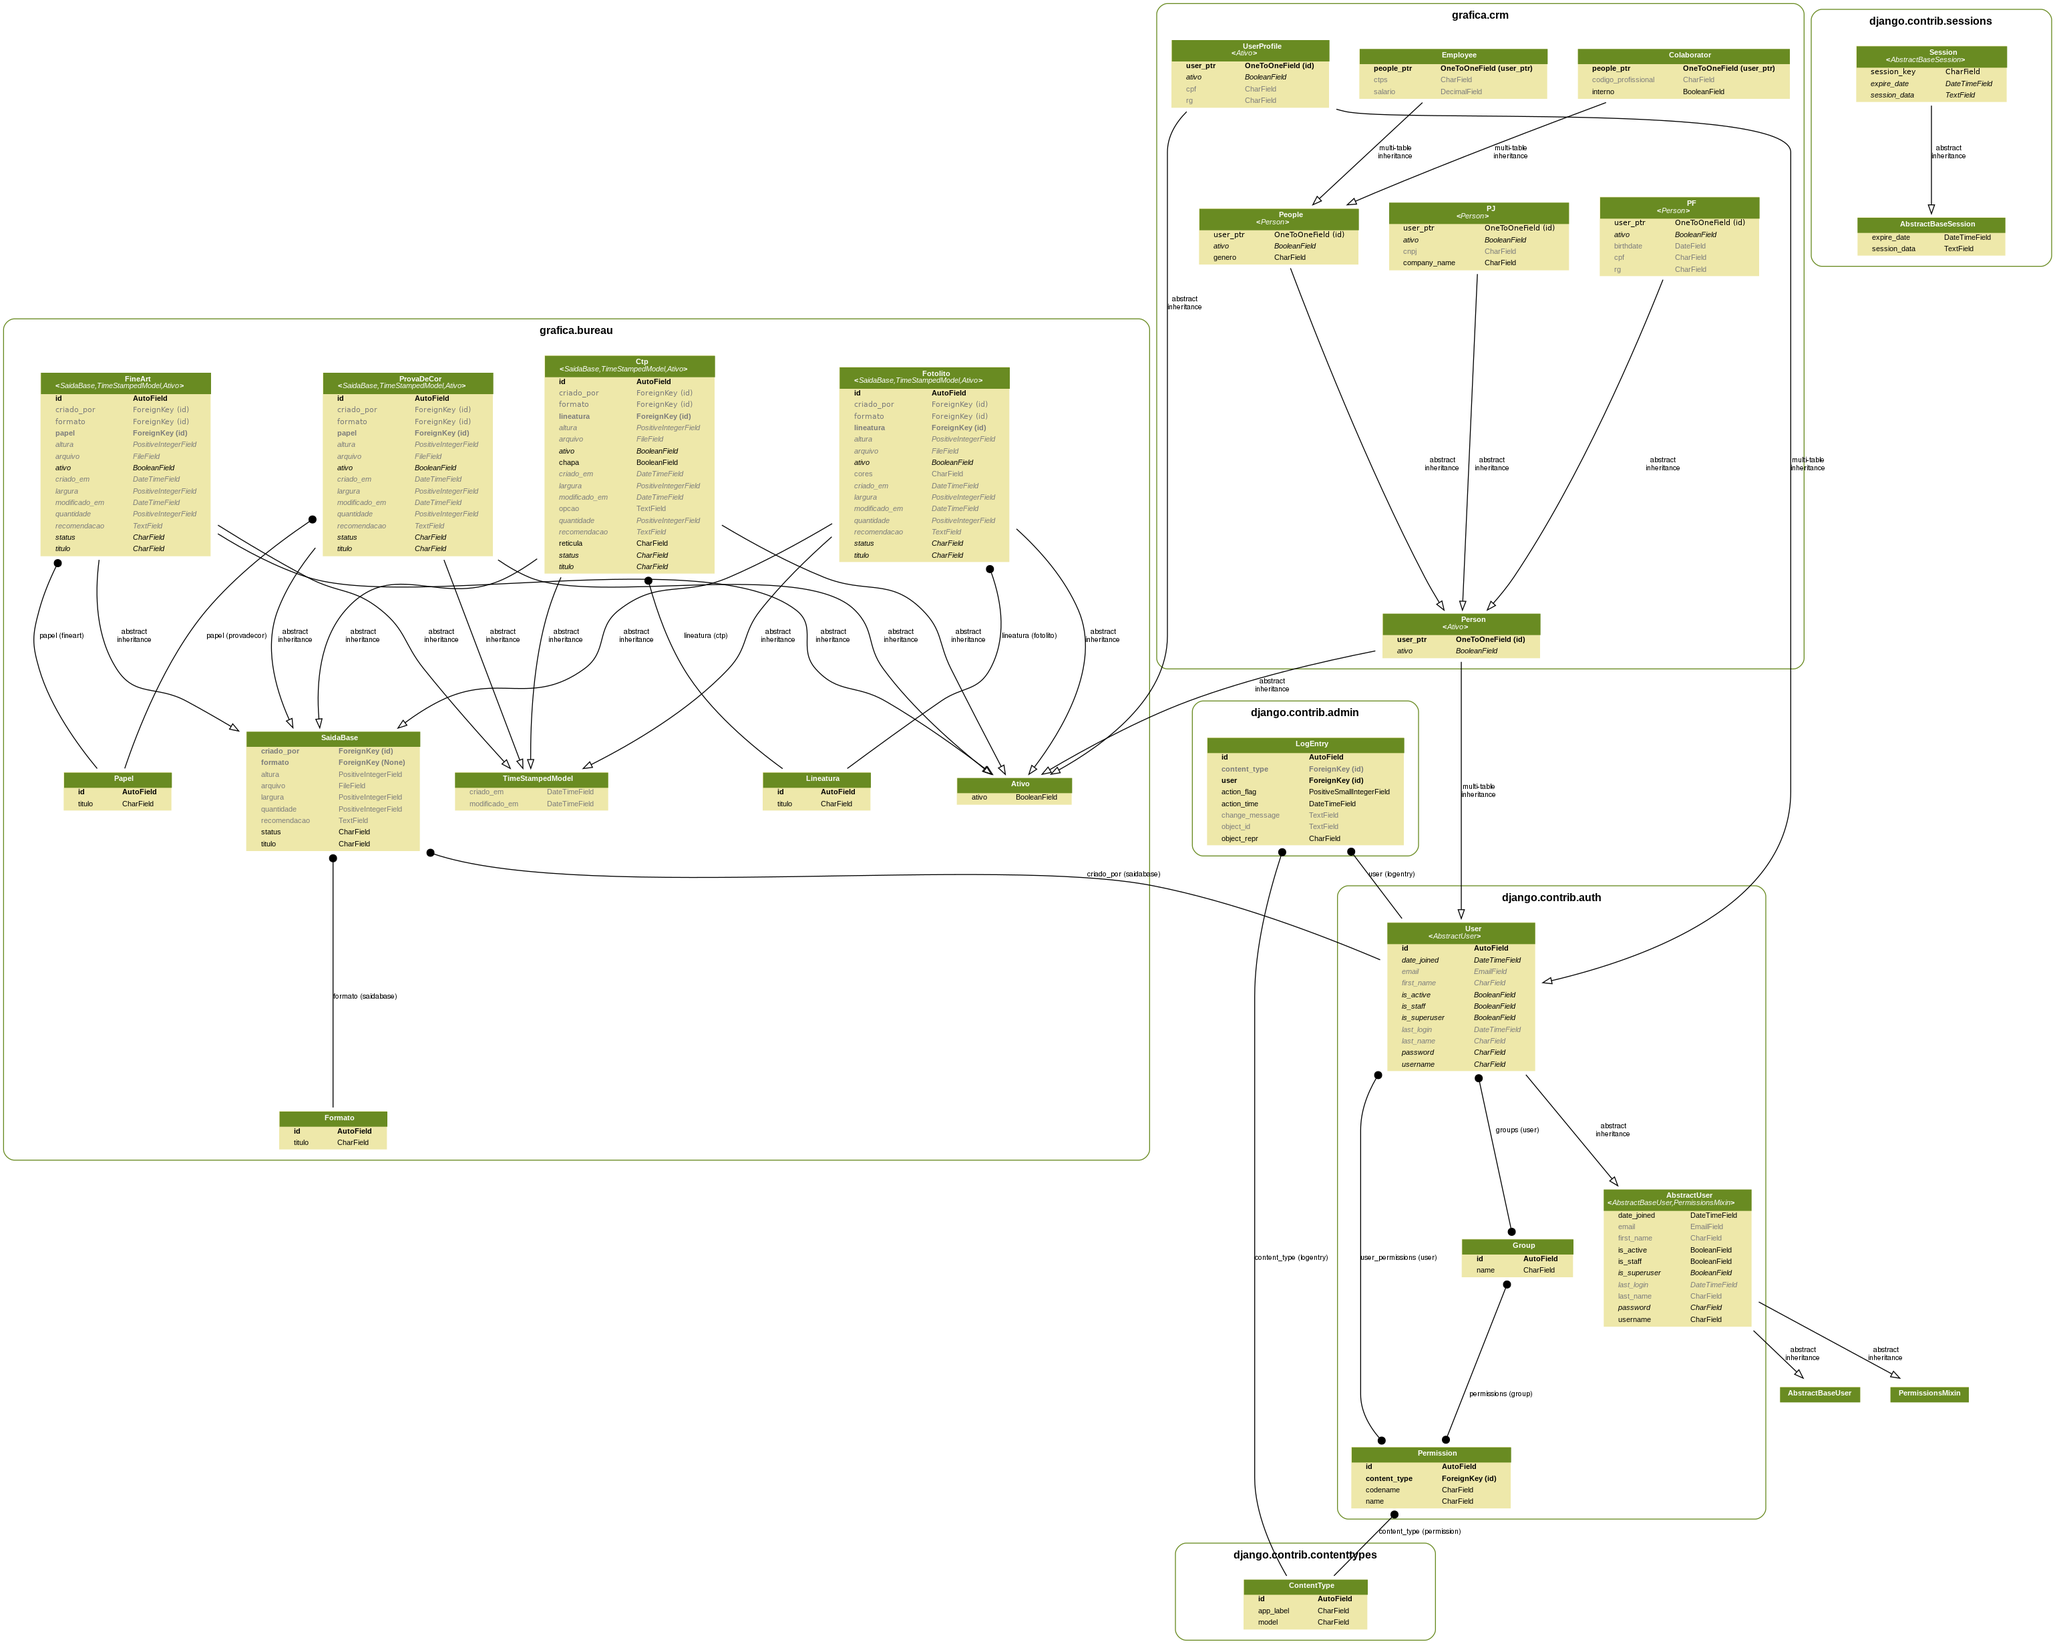
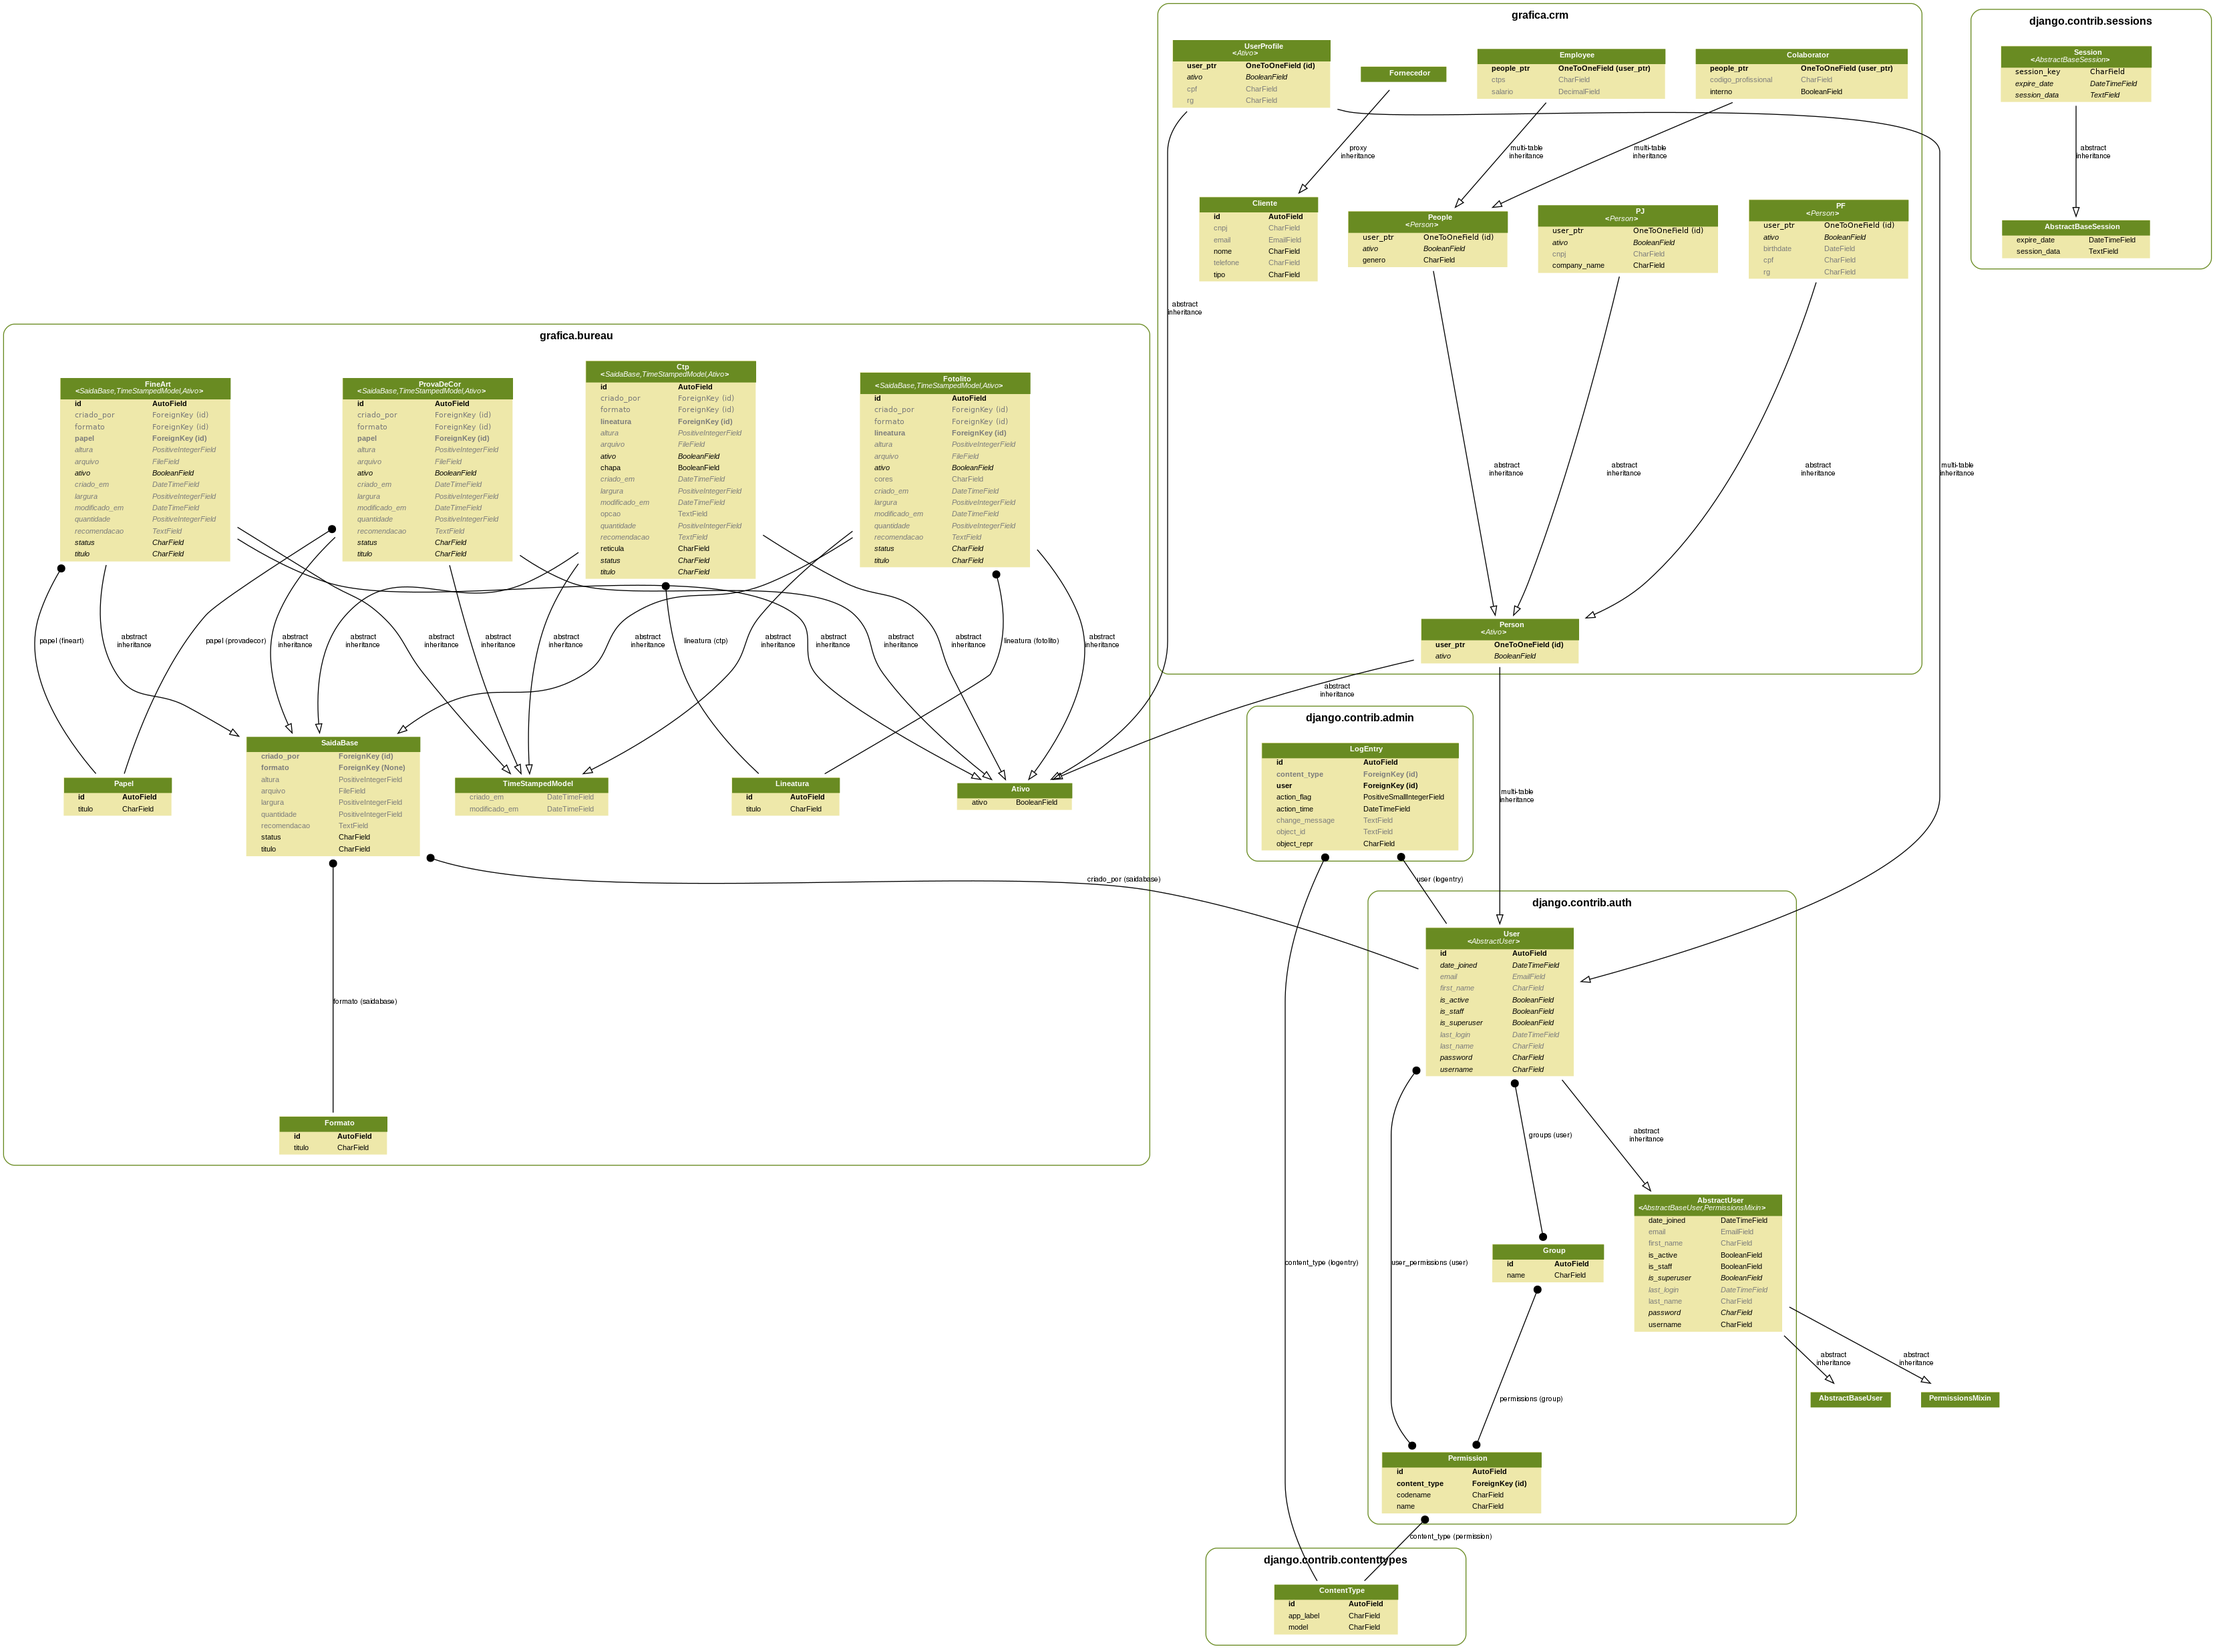
Proxy model

diff --git a/grafica/crm/migrations/0001_initial.py b/grafica/crm/migrations/0001_initial.py
@@ -1,4 +1,4 @@
-# Generated by Django 2.1.2 on 2018-10-08 23:10
+# Generated by Django 2.1.2 on 2018-11-02 15:26
 
 from django.conf import settings
 import django.contrib.auth.models
@@ -15,6 +15,32 @@ class Migration(migrations.Migration):
     ]
 
     operations = [
+        migrations.CreateModel(
+            name='Cliente',
+            fields=[
+                ('id', models.AutoField(auto_created=True, primary_key=True, serialize=False, verbose_name='ID')),
+                ('nome', models.CharField(max_length=50, unique=True)),
+                ('email', models.EmailField(blank=True, max_length=254, null=True)),
+                ('telefone', models.CharField(blank=True, max_length=10, null=True)),
+                ('cnpj', models.CharField(blank=True, max_length=18, null=True)),
+                ('tipo', models.CharField(choices=[('c', 'cliente'), ('f', 'fornecedor')], max_length=2)),
+            ],
+        ),
+        migrations.CreateModel(
+            name='People',
+            fields=[
+                ('user_ptr', models.OneToOneField(auto_created=True, on_delete=django.db.models.deletion.CASCADE, parent_link=True, primary_key=True, serialize=False, to=settings.AUTH_USER_MODEL)),
+                ('ativo', models.BooleanField(default=True)),
+                ('genero', models.CharField(choices=[('', '---'), ('M', 'masculino'), ('F', 'feminino')], default='', max_length=1)),
+            ],
+            options={
+                'abstract': False,
+            },
+            bases=('auth.user', models.Model),
+            managers=[
+                ('objects', django.contrib.auth.models.UserManager()),
+            ],
+        ),
         migrations.CreateModel(
             name='PF',
             fields=[
@@ -68,5 +94,45 @@ class Migration(migrations.Migration):
             managers=[
                 ('objects', django.contrib.auth.models.UserManager()),
             ],
+        ),
+        migrations.CreateModel(
+            name='Colaborator',
+            fields=[
+                ('people_ptr', models.OneToOneField(auto_created=True, on_delete=django.db.models.deletion.CASCADE, parent_link=True, primary_key=True, serialize=False, to='crm.People')),
+                ('codigo_profissional', models.CharField(blank=True, help_text='Código do profissional', max_length=10, null=True)),
+                ('interno', models.BooleanField(default=False, help_text='O profissional é interno ou não.')),
+            ],
+            options={
+                'abstract': False,
+            },
+            bases=('crm.people',),
+            managers=[
+                ('objects', django.contrib.auth.models.UserManager()),
+            ],
+        ),
+        migrations.CreateModel(
+            name='Employee',
+            fields=[
+                ('people_ptr', models.OneToOneField(auto_created=True, on_delete=django.db.models.deletion.CASCADE, parent_link=True, primary_key=True, serialize=False, to='crm.People')),
+                ('salario', models.DecimalField(blank=True, decimal_places=2, max_digits=7, null=True)),
+                ('ctps', models.CharField(blank=True, max_length=20, null=True)),
+            ],
+            options={
+                'abstract': False,
+            },
+            bases=('crm.people',),
+            managers=[
+                ('objects', django.contrib.auth.models.UserManager()),
+            ],
+        ),
+        migrations.CreateModel(
+            name='Fornecedor',
+            fields=[
+            ],
+            options={
+                'proxy': True,
+                'indexes': [],
+            },
+            bases=('crm.cliente',),
         ),
     ]

diff --git a/grafica/crm/models.py b/grafica/crm/models.py
@@ -75,6 +75,10 @@ class PJ(Person):
 
 
 class People(Person):
+    '''
+    É uma nova tabela.
+    É uma cópia de Person.
+    '''
     GENERO = (
         ('', '---'),
         ('M', 'masculino'),
@@ -84,6 +88,9 @@ class People(Person):
 
 
 class Colaborator(People):
+    '''
+    MTI
+    '''
     codigo_profissional = models.CharField(
         max_length=10, null=True, blank=True, help_text='Código do profissional'
     )
@@ -93,7 +100,55 @@ class Colaborator(People):
 
 
 class Employee(People):
+    '''
+    MTI
+    '''
     salario = models.DecimalField(
         max_digits=7, decimal_places=2, null=True, blank=True
     )
     ctps = models.CharField(max_length=20, null=True, blank=True)
+
+
+class ClienteManager(models.Manager):
+
+    def get_queryset(self):
+        return super(ClienteManager, self).get_queryset().filter(tipo='c')
+
+
+class Cliente(models.Model):
+    TIPO = (
+        ('c', 'cliente'),
+        ('f', 'fornecedor'),
+    )
+    nome = models.CharField(max_length=50, unique=True)
+    email = models.EmailField(null=True, blank=True)
+    telefone = models.CharField(max_length=10, null=True, blank=True)
+    cnpj = models.CharField(max_length=18, null=True, blank=True)
+    tipo = models.CharField(max_length=2, choices=TIPO)
+
+    objects = ClienteManager()
+
+    class Meta:
+        verbose_name = 'cliente'
+        verbose_name_plural = 'clientes'
+
+    def __str__(self):
+        return self.nome
+
+
+class FornecedorManager(models.Manager):
+
+    def get_queryset(self):
+        return super(FornecedorManager, self).get_queryset().filter(tipo='f')
+
+
+class Fornecedor(Cliente):
+    '''
+    Proxy model
+    '''
+    objects = FornecedorManager()
+
+    class Meta:
+        proxy = True
+        verbose_name = 'fornecedor'
+        verbose_name_plural = 'fornecedores'

diff --git a/grafica/crm/admin.py b/grafica/crm/admin.py
@@ -1,5 +1,5 @@
 from django.contrib import admin
-from .models import UserProfile, PJ, PF, Colaborator, Employee
+from .models import UserProfile, PJ, PF, Colaborator, Employee, Cliente, Fornecedor
 
 
 @admin.register(UserProfile)
@@ -25,4 +25,14 @@ class ColaboratorAdmin(admin.ModelAdmin):
 
 @admin.register(Employee)
 class EmployeeAdmin(admin.ModelAdmin):
+    list_display = ('__str__',)
+
+
+@admin.register(Cliente)
+class ClienteAdmin(admin.ModelAdmin):
+    list_display = ('__str__',)
+
+
+@admin.register(Fornecedor)
+class FornecedorAdmin(admin.ModelAdmin):
     list_display = ('__str__',)
